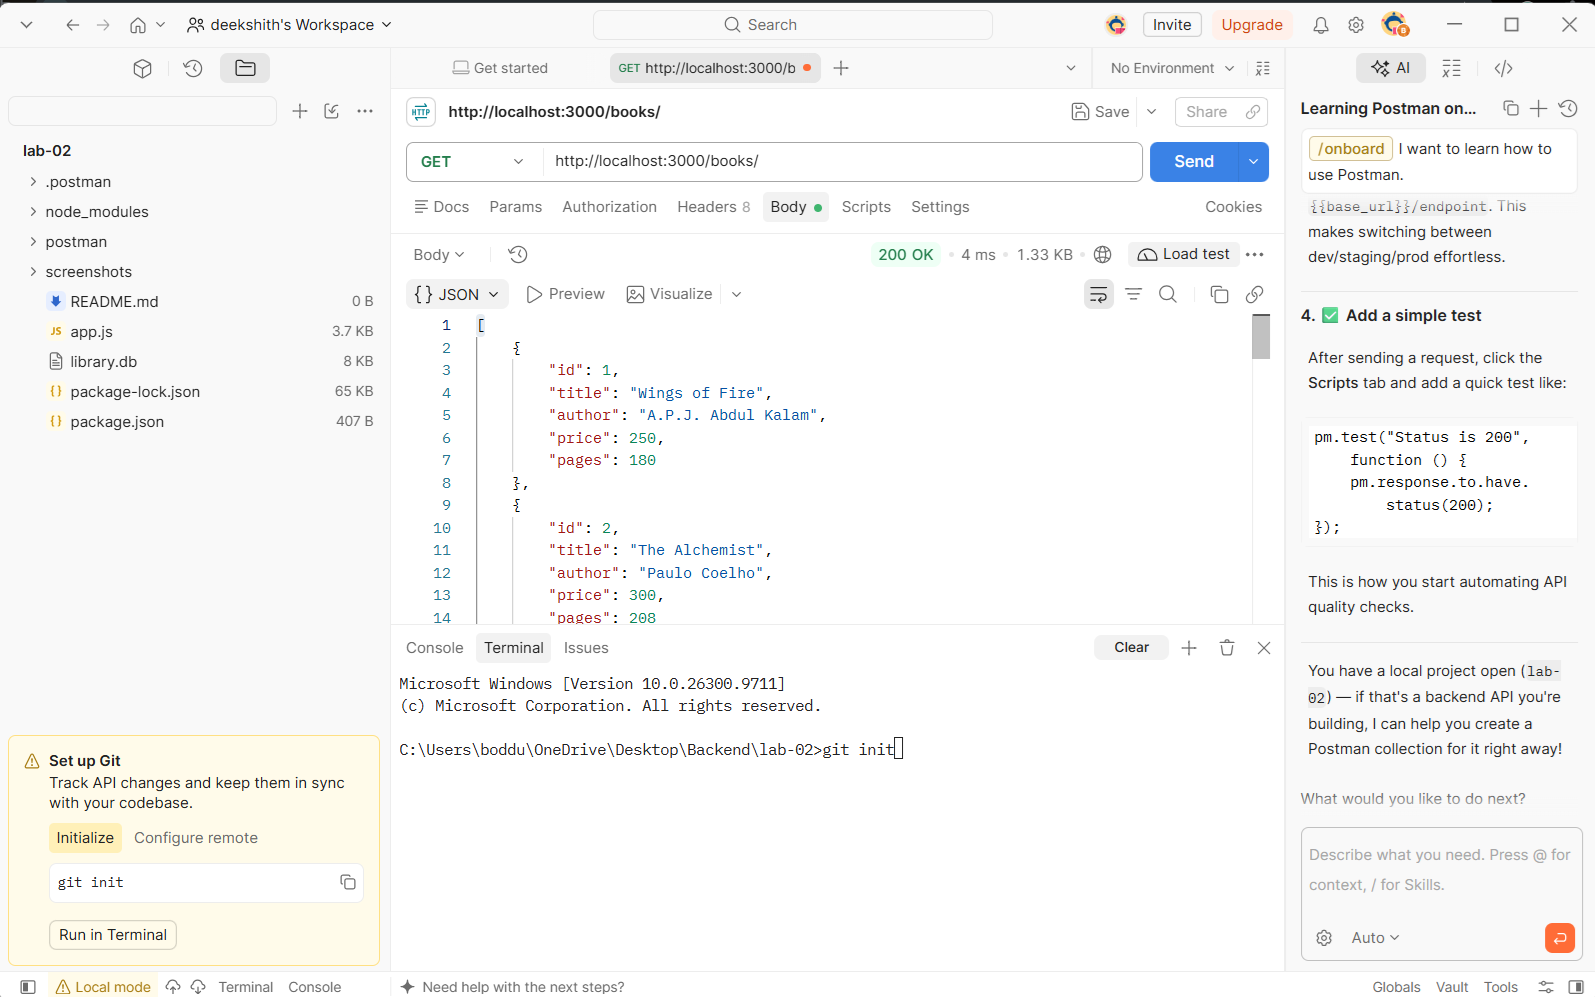
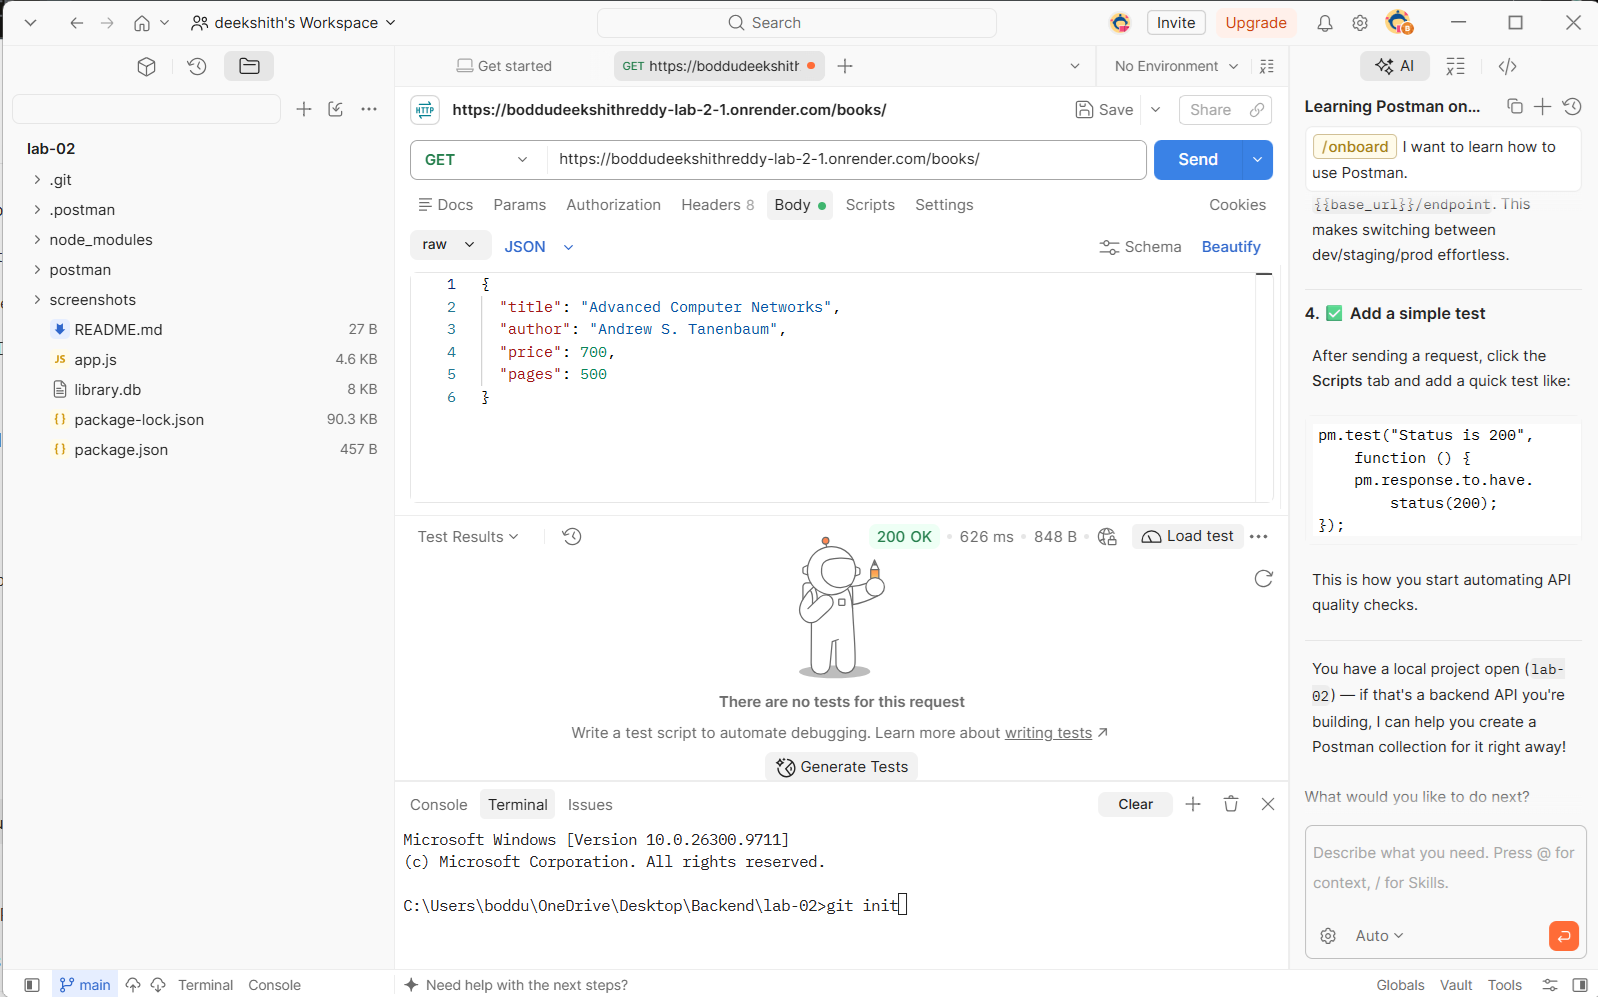
Update Lab 02 README and Postman screenshots

diff --git a/README.md b/README.md
@@ -1,1 +1,304 @@
-# boddudeekshithreddy_lab-2
+# BDF Lab 02 – SQLite Database and CRUD Routes
+
+## Student Details
+
+- **Name:** Boddu Deekshith Reddy
+- **Registration Number:** [Enter Your Registration Number]
+- **Section:** [Enter Your Section]
+- **Lab Number:** 02
+- **Lab Title:** SQLite Database and CRUD Routes
+
+---
+
+## 1. Project Description
+
+This project demonstrates how to integrate an SQLite database with a Node.js and Express.js application.
+
+It implements CRUD (Create, Read, Update, Delete) operations for managing book records through REST API endpoints.
+
+The application uses SQLite to store book information and Express.js to handle HTTP requests and responses.
+
+## 2. Technologies Used
+
+- Node.js
+- Express.js
+- SQLite
+- SQLite3
+- JavaScript
+- Postman
+- Git and GitHub
+- Render (Deployment)
+
+## 3. Project Structure
+
+```text
+lab-02/
+│
+├── app.js
+├── library.db
+├── package.json
+├── package-lock.json
+├── .gitignore
+├── README.md
+│
+├── screenshots/
+│   ├── 01-get-all-books.png
+│   ├── 02-get-book-by-id.png
+│   ├── 03-post-add-book.png
+│   ├── 04-put-update-book.png
+│   ├── 05-delete-book.png
+│   └── 06-verify-deleted-book.png
+│
+└── postman/
+    └── collections/
+        └── BDF_Lab_02.postman_collection.json
+```
+
+## 4. Installation and Setup
+
+### Prerequisites
+
+- Node.js installed
+- npm installed
+- VS Code
+- Postman
+
+### Step 1: Clone the Repository
+
+```bash
+git clone https://github.com/boddudeekshithreddy/boddudeekshithreddy_lab-2.git
+```
+
+### Step 2: Navigate to the Project Folder
+
+```bash
+cd boddudeekshithreddy_lab-2
+```
+
+### Step 3: Install Dependencies
+
+```bash
+npm install
+```
+
+### Step 4: Start the Development Server
+
+```bash
+npm run dev
+```
+
+Alternatively, run the application using:
+
+```bash
+npm start
+```
+
+The server runs on port 3000 locally, or the port provided by the deployment platform.
+
+Expected terminal output:
+
+```text
+Database connected successfully
+Server running on port 3000
+```
+
+## 5. Database Structure
+
+**Database Name:** `library.db`
+
+**Table Name:** `book`
+
+| Column | Data Type | Description |
+|---|---|---|
+| id | INTEGER | Primary key |
+| title | TEXT | Book title |
+| author | TEXT | Author name |
+| price | INTEGER | Book price |
+| pages | INTEGER | Number of pages |
+
+The database contains initial book records for testing the CRUD operations.
+
+## 6. API Endpoints
+
+**Base URL:**
+
+```text
+https://boddudeekshithreddy-lab-2-1.onrender.com
+```
+
+| HTTP Method | Endpoint | Description |
+|---|---|---|
+| GET | `/books/` | Retrieve all books |
+| GET | `/books/:bookId/` | Retrieve a book by ID |
+| POST | `/books/` | Add a new book |
+| PUT | `/books/:bookId/` | Update a book |
+| DELETE | `/books/:bookId/` | Delete a book |
+
+## 7. API Testing Using Postman
+
+All API endpoints are tested using Postman with the deployed Render URL.
+
+### 7.1 GET – Retrieve All Books
+
+**Endpoint:**
+
+```http
+GET /books/
+```
+
+**Description:** Retrieves all book records from the SQLite database.
+
+**Expected Status:** `200 OK`
+
+**Screenshot:**
+
+![GET All Books](screenshots/01-get-all-books.png)
+
+### 7.2 GET – Retrieve Book by ID
+
+**Endpoint:**
+
+```http
+GET /books/1/
+```
+
+**Description:** Retrieves a particular book using its ID.
+
+**Expected Status:** `200 OK`
+
+**Screenshot:**
+
+![GET Book By ID](screenshots/02-get-book-by-id.png)
+
+### 7.3 POST – Add a New Book
+
+**Endpoint:**
+
+```http
+POST /books/
+```
+
+**Request Body:**
+
+```json
+{
+  "title": "Learning Node.js",
+  "author": "David Smith",
+  "price": 550,
+  "pages": 320
+}
+```
+
+**Description:** Inserts a new book record into the SQLite database.
+
+**Expected Status:** `201 Created`
+
+**Screenshot:**
+
+![POST Add Book](screenshots/03-post-add-book.png)
+
+### 7.4 PUT – Update a Book
+
+**Endpoint:**
+
+```http
+PUT /books/13/
+```
+
+**Request Body:**
+
+```json
+{
+  "title": "Advanced Node.js",
+  "author": "David Smith",
+  "price": 650,
+  "pages": 400
+}
+```
+
+**Description:** Updates an existing book record using its ID.
+
+**Expected Status:** `200 OK`
+
+**Screenshot:**
+
+![PUT Update Book](screenshots/04-put-update-book.png)
+
+### 7.5 DELETE – Delete a Book
+
+**Endpoint:**
+
+```http
+DELETE /books/13/
+```
+
+**Description:** Deletes an existing book record from the database.
+
+**Expected Status:** `200 OK`
+
+**Screenshot:**
+
+![DELETE Book](screenshots/05-delete-book.png)
+
+### 7.6 Verify Deleted Book
+
+**Endpoint:**
+
+```http
+GET /books/13/
+```
+
+**Description:** Checks whether the deleted book still exists in the database.
+
+**Expected Status:** `404 Not Found`
+
+**Screenshot:**
+
+![Verify Deleted Book](screenshots/06-verify-deleted-book.png)
+
+> Note: Replace book ID `13` in the PUT and DELETE examples with the actual ID returned by your POST request, if different.
+
+## 8. Postman Collection
+
+The Postman collection contains requests for testing all CRUD operations.
+
+**Collection Name:** `BDF Lab 02 - SQLite CRUD API`
+
+**Collection File:**
+
+```text
+postman/collections/BDF_Lab_02.postman_collection.json
+```
+
+## 9. Live Deployment
+
+The application is deployed using Render.
+
+**Live Application URL:**
+
+https://boddudeekshithreddy-lab-2-1.onrender.com
+
+**Test API:**
+
+https://boddudeekshithreddy-lab-2-1.onrender.com/books/
+
+## 10. Learning Outcomes
+
+- Learned how to connect SQLite with Node.js.
+- Learned how to create and manage database tables.
+- Implemented REST API endpoints using Express.js.
+- Practiced GET, POST, PUT and DELETE operations.
+- Learned how to use parameterized SQL queries.
+- Tested API endpoints using Postman.
+- Learned how to deploy a Node.js application using Render.
+- Learned how to maintain project files using Git and GitHub.
+
+## 11. Conclusion
+
+This lab helped me understand the integration of SQLite databases with Node.js and Express.js. I implemented all five CRUD API endpoints and tested them using Postman. I also learned how to deploy a backend application using Render and maintain the project in GitHub.
+
+---
+
+**Repository:** https://github.com/boddudeekshithreddy/boddudeekshithreddy_lab-2
+
+**Deployment:** https://boddudeekshithreddy-lab-2-1.onrender.com
